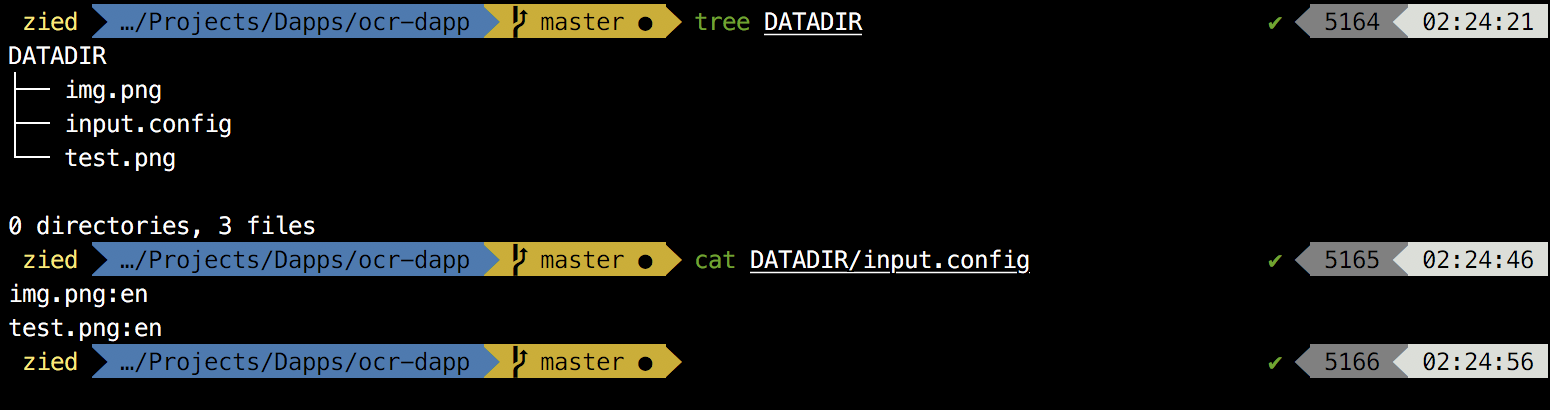
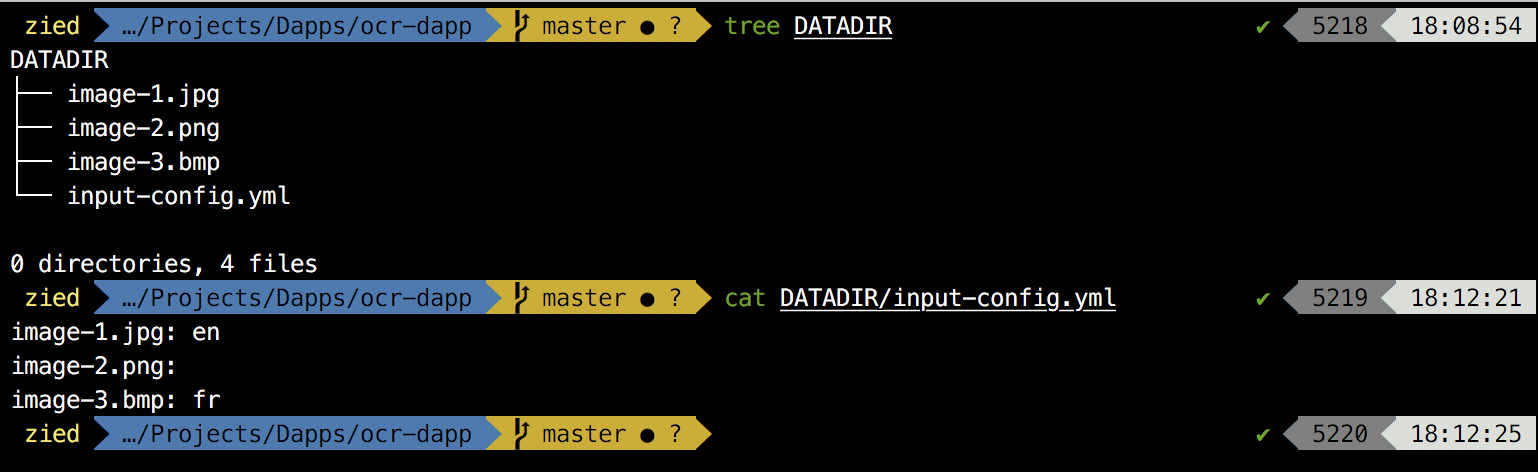
change config file to yaml

diff --git a/app/src/app.py b/app/src/app.py
@@ -22,9 +22,11 @@ class App:
         self._in = '{}/{}/'.format( yml['datadir'], yml['input-dir'] )
         self._out = '{}/{}/'.format( yml['datadir'], yml['output-dir'] )
         self._outputFileExtension = yml['output-files-extension']
-        self._inputConfig = []
+        self._inputConfig = self.parseConfigFile()
 
-        self.parseConfigFile()
+        print(self._inputConfig)
+        sys.exit('you told me that')
+
         self.prepareDatadir()
 
 
@@ -47,16 +49,22 @@ class App:
         if not os.path.isfile(self._inputConfigFile):
             raise exc.NoConfigFileError
 
-        f = open(self._inputConfigFile)
-        for line in f:
-            try:
-                conf = list(map(str.strip, line.split(':')))
-            except Exception:
-                raise exc.UnrespectedConfigFormatError
-            if(len(conf) != 2):
-                raise exc.UnrespectedConfigFormatError
+        try:
+            return yaml.load(open(self._inputConfigFile))
+        except Exception:
+            raise exc.UnrespectedConfigFormatError
 
-            self._inputConfig.append(conf)
+
+        # f = open(self._inputConfigFile)
+        # for line in f:
+        #     try:
+        #         conf = list(map(str.strip, line.split(':')))
+        #     except Exception:
+        #         raise exc.UnrespectedConfigFormatError
+        #     if(len(conf) != 2):
+        #         raise exc.UnrespectedConfigFormatError
+
+        #     self._inputConfig.append(conf)
 
 
     def prepareDatadir(self):

diff --git a/app/src/consensus.py b/app/src/consensus.py
@@ -22,6 +22,7 @@ class Consensus:
 
             path = self.fullPath(filename)
             filehash = hashFile(path)
+            
             try:
                 consensus.write('{}\n'.format(filehash))
             except Exception:

diff --git a/README.md b/README.md
@@ -1,17 +1,15 @@
-# OCR-Dapp
 
 <img src="./logo.png" width="400">
 
 
 ## Description
-This dapp applies [tesseract-OCR](https://github.com/tesseract-ocr/tesseract) on images and extracts text from them.  
+Ocr-dapp is an Ethereum ready dapp that applies [tesseract-OCR](https://github.com/tesseract-ocr/tesseract) to extract text from images.  
 
-<img src="./images/img.png" width="425" height="410"> <img src="./images/text.png" width="425">
+![demo](./images/demo.png)
 
 
 ## Usage
-Put your images in a directory (we'll call it DATADIR) and add your ```input.config``` file to define language for each image. Your ```input.config```
-file should respect the ```<imagename>:<lang>``` format.
+Put your images and your ```input-config.yml``` file in a folder (exp: DATADIR).The ```input-config.yml``` file defines language for each image and it should respect the ```<imagename>: <lang>``` format.
 
 ![screenshot](./images/screenshot-1.png)
 
